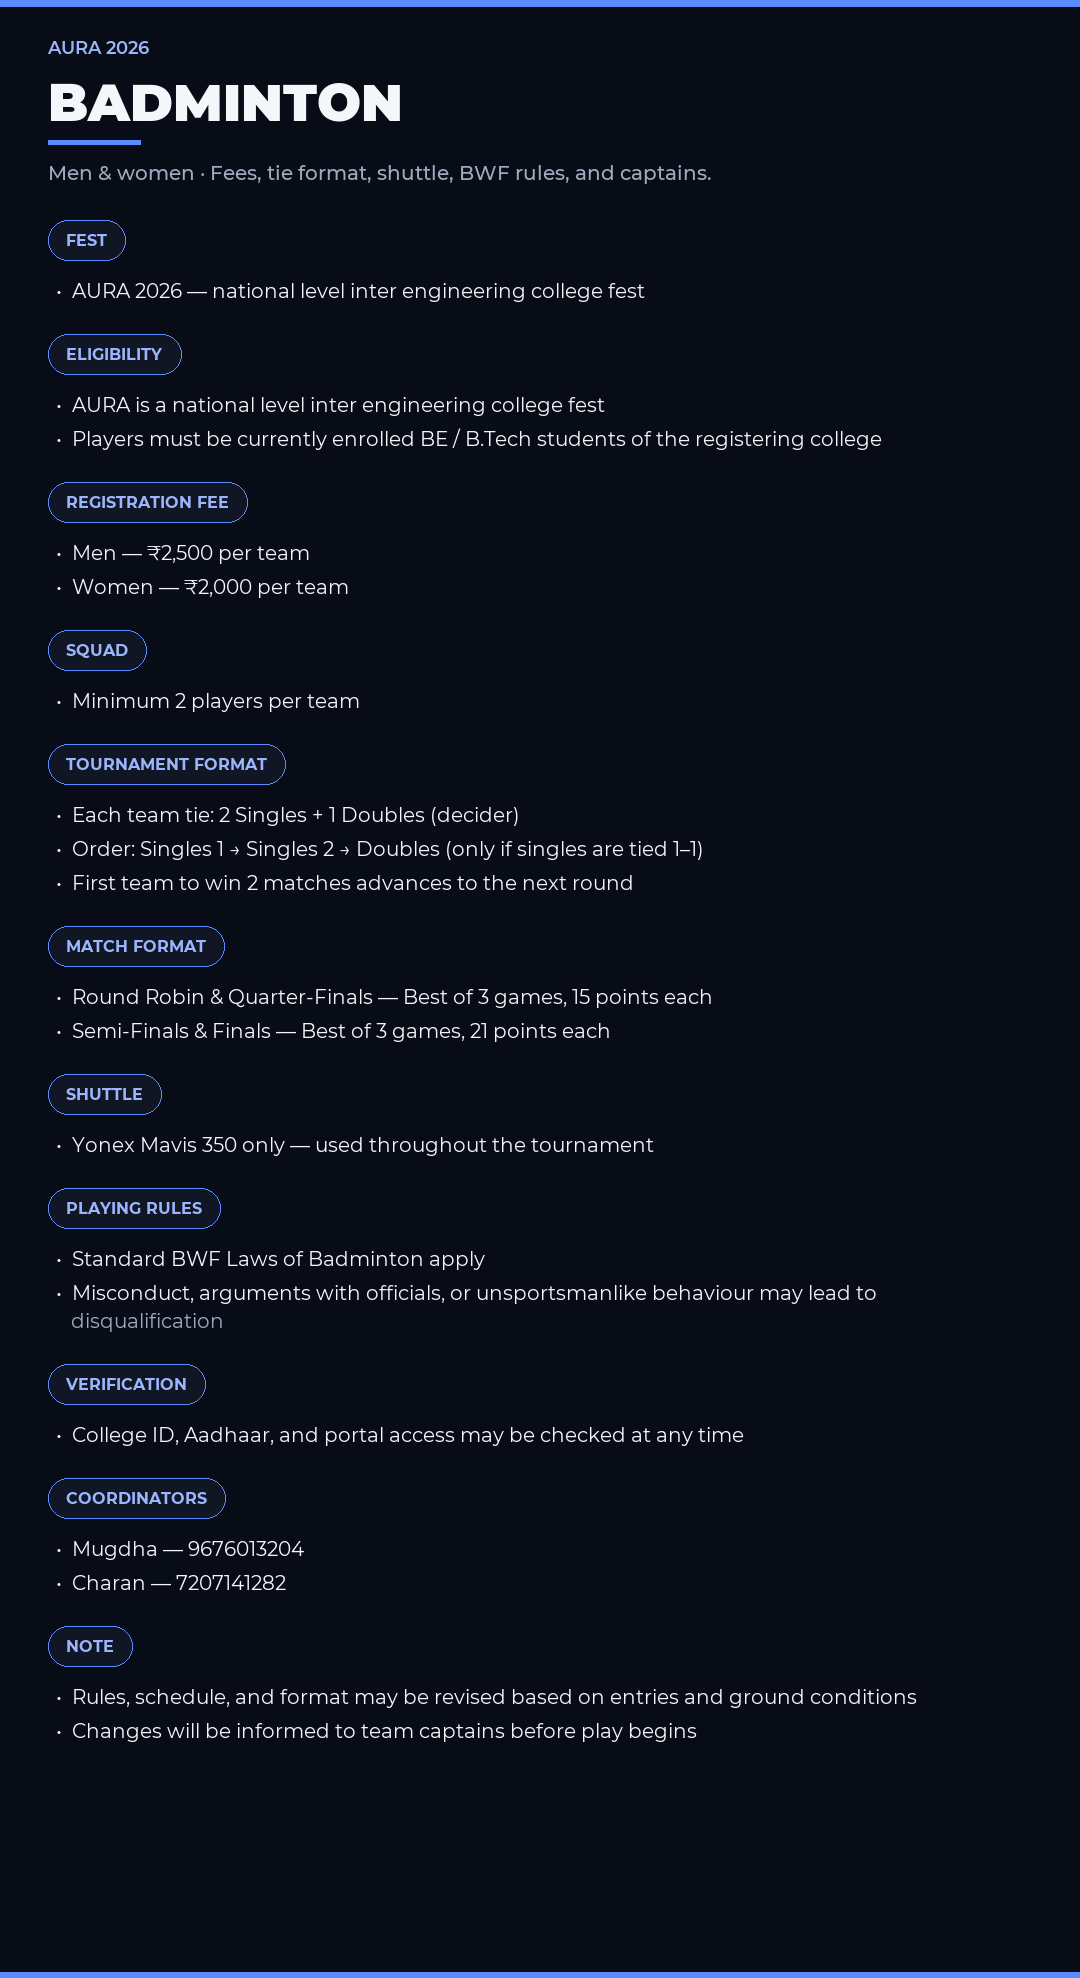
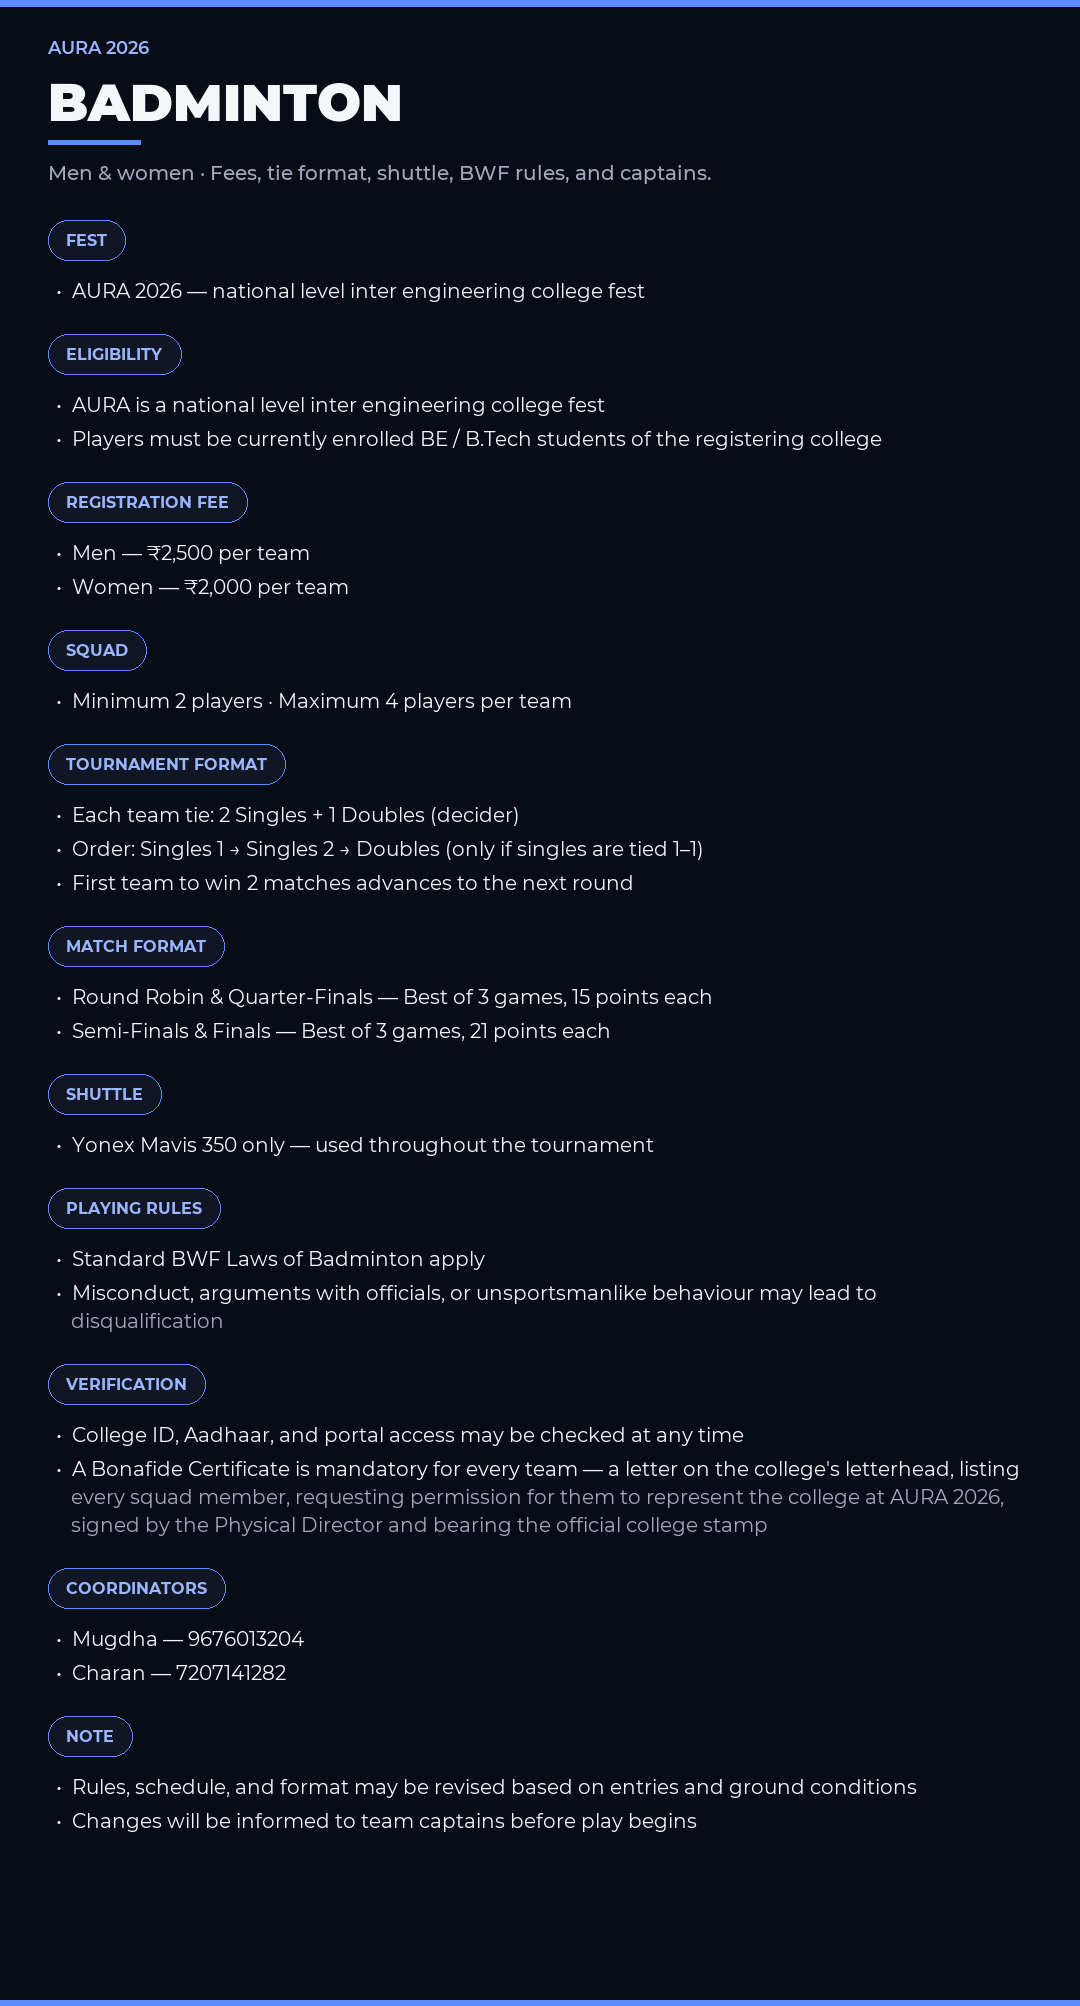
Cap Football at 15 teams; require Bonafide Certificate for all sports; fix squad limits.
- Football's registration cap lowered from 16 to 15 teams (rules sheet,
  homepage card, config, register-flow banner). Cricket's cap stays at 16.
- Every sport's rules sheet now states a Bonafide Certificate is mandatory:
  a letter on the college's letterhead listing the full squad, requesting
  permission to represent the college, signed by the Physical Director and
  bearing the college stamp. Also surfaced on the registration page itself
  (Step 2, next to the roster field, and again on the final confirmation
  screen) so every college sees it regardless of sport.
- Table Tennis squad size corrected to 3-4 players (was 3-5).
- Badminton squad now states a max of 4 players (previously only a min of 2).
- Carroms max squad size corrected to 5 players (was 6).

diff --git a/register.html b/register.html
@@ -156,6 +156,13 @@
               </small>
             </div>
 
+            <div class="sport-date-banner" role="status">
+              <strong>Bonafide Certificate required:</strong> Every team, for every sport, must carry a Bonafide
+              Certificate — a letter on your college's letterhead, listing all the players named above, requesting
+              permission for them to represent the college at AURA 2026, signed by your Physical Director and
+              bearing the official college stamp. Please have this ready before reporting for your match.
+            </div>
+
             <div class="form-actions">
               <button type="button" class="btn btn-ghost" id="back-1">← Back</button>
               <button type="button" class="btn btn-primary" id="to-step-3">Continue to rules →</button>
@@ -276,6 +283,12 @@
               so we can approve you faster.
             </p>
             <div class="coord-box" id="final-coords" aria-label="Coordinator contacts"></div>
+            <div class="sport-date-banner" role="status">
+              <strong>Before you report to play:</strong> Bring your team's Bonafide Certificate — a letter on your
+              college's letterhead, listing the full squad, requesting permission for them to represent the college
+              at AURA 2026, signed by your Physical Director and bearing the official college stamp. This is
+              mandatory for every sport and every college.
+            </div>
             <div class="form-actions">
               <a class="btn btn-primary" href="index.html">Back to home</a>
               <a
@@ -293,7 +306,7 @@
       </div>
     </main>
 
-    <script src="js/config.js?v=6"></script>
-    <script src="js/registration.js?v=6"></script>
+    <script src="js/config.js?v=7"></script>
+    <script src="js/registration.js?v=7"></script>
   </body>
 </html>

diff --git a/index.html b/index.html
@@ -387,8 +387,8 @@
             </div>
             <div class="sport-body">
               <h3>Football</h3>
-              <div class="sport-tags"><span class="tag tag-men">Men</span><span class="tag tag-outdoor">Outdoor</span><span class="tag">6–8 Oct</span><span class="tag tag-limited">First 16 teams only</span></div>
-              <p>Played <strong>6–8 October 2026</strong> (earlier than the main fest window). Full-field knockout energy. <strong>Only the first 16 team registrations will be accepted.</strong></p>
+              <div class="sport-tags"><span class="tag tag-men">Men</span><span class="tag tag-outdoor">Outdoor</span><span class="tag">6–8 Oct</span><span class="tag tag-limited">First 15 teams only</span></div>
+              <p>Played <strong>6–8 October 2026</strong> (earlier than the main fest window). Full-field knockout energy. <strong>Only the first 15 team registrations will be accepted.</strong></p>
               <div class="sport-foot">
                 <a class="soon" href="rules.html?sport=football" style="text-decoration:none">View rules →</a>
                 <span class="type">Team</span>

diff --git a/js/config.js b/js/config.js
@@ -129,8 +129,8 @@ window.AURA_CONFIG = {
       feeRupees: 4000,
       eventDates: "6–8 October 2026",
       eventDatesNote:
-        "Football is scheduled 6–8 October 2026 (ahead of the main fest window of 7–9 October). Only the first 16 team registrations will be accepted.",
-      capacityNote: "Limited to the first 16 team registrations.",
+        "Football is scheduled 6–8 October 2026 (ahead of the main fest window of 7–9 October). Only the first 15 team registrations will be accepted.",
+      capacityNote: "Limited to the first 15 team registrations.",
     },
     {
       id: "volleyball",
